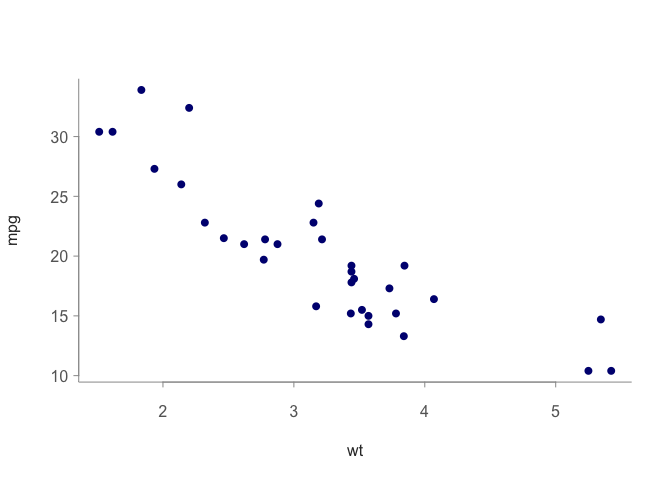
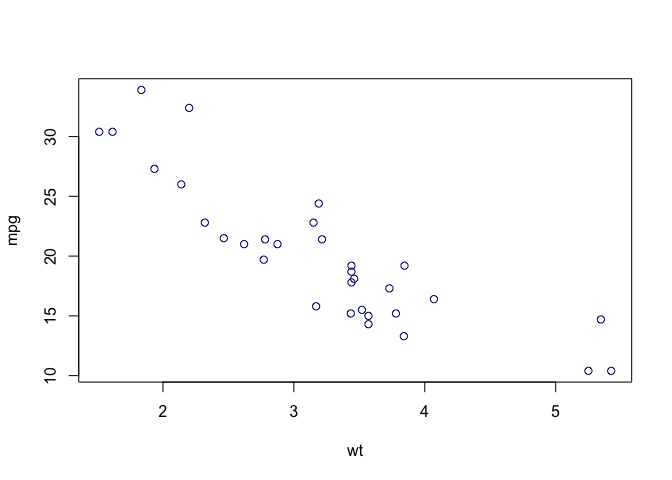
knit README

diff --git a/README.md b/README.md
@@ -39,25 +39,25 @@ example_plots()
 
 remove_style()
 par(mfrow=c(1,1))
+
 # create a new style:
-blue <- new_style(par = list(pch = 16,
-                             fg = grey(0.6),
-                             col.axis = grey(0.4),
-                             col.lab = grey(0.2),
-                             las = 1,
-                             col.main = grey(0.4),
-                             col.sub = grey(0.4),
-                             tcl = -0.25,
-                             bty="l"),
-                  graphics = list(axis = list(hadj = 0.5),
-                                  plot.xy = list(col = "navyblue",
-                                                 lwd = 2.5,
-                                                 cex = 1.1)))
+blue <- new_style(graphics = list(plot.xy = list(col = "navyblue")))
 style(blue)
 plot(mpg ~ wt, data = mtcars)
 ```
 
 ![](README-example-2.png)
+
+``` r
+remove_style()
+
+blue_stars <- new_style(par = list(pch = 8),
+                  graphics = list(plot.xy = list(col = "navyblue")))
+style(blue_stars)
+plot(mpg ~ wt, data = mtcars)
+```
+
+![](README-example-3.png)
 
 ``` r
 remove_style()
